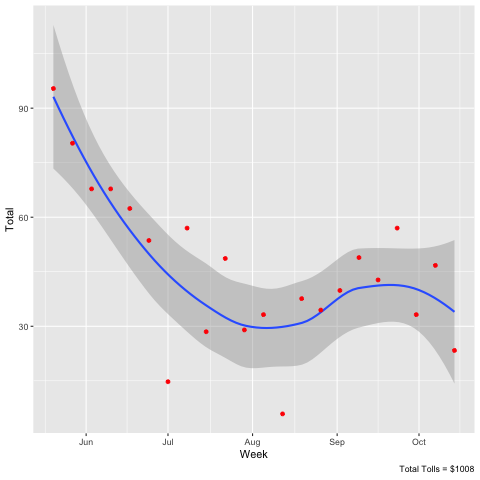
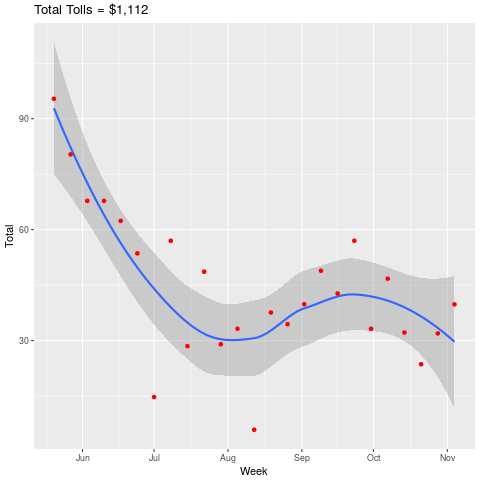
added ggtitle and removed subtitle. Updated data and changed Rmd to be a relative file path to the project instead of a direct pull from github.

diff --git a/README.md b/README.md
@@ -9,7 +9,7 @@ library(ggplot2)
 library(dplyr)
 
 
-mydata <- read.csv(file = "https://raw.githubusercontent.com/Spoted21/ExpressToll/master/tolls.csv")
+mydata <- read.csv(file = "tolls.csv")
 names(mydata) <- gsub(pattern = "\\.",replacement = "",x = names(mydata))
 mydata$TransactionDateTime <- strptime(mydata$TransactionDateTime,format = 
                                          "%m-%d-%Y %H:%M:%S")
@@ -21,7 +21,7 @@ mydata$Amount <-as.numeric( gsub(pattern = "\\$",replacement = "",
 mydata$Week <- floor_date(mydata$Date, unit = "week")
 
 
-bigm <- function(x) paste0("$",formatC(x = x,digits = 0,format = "d"))
+bigm <- function(x) paste0("$",formatC(x = x,digits = 0,big.mark = ",",format = "d"))
 TotalTolls <- sum(mydata$Amount)
 
 png("TollsByWeek.png")
@@ -33,7 +33,7 @@ mydata %>%
   # geom_line() +
   geom_smooth() +
   geom_point(color="red") + 
-  labs(caption =paste0("Total Tolls = ",bigm(TotalTolls)))
+  ggtitle(label = paste0("Total Tolls = ",bigm(TotalTolls) ) ) 
 dev.off()
 ```
 
